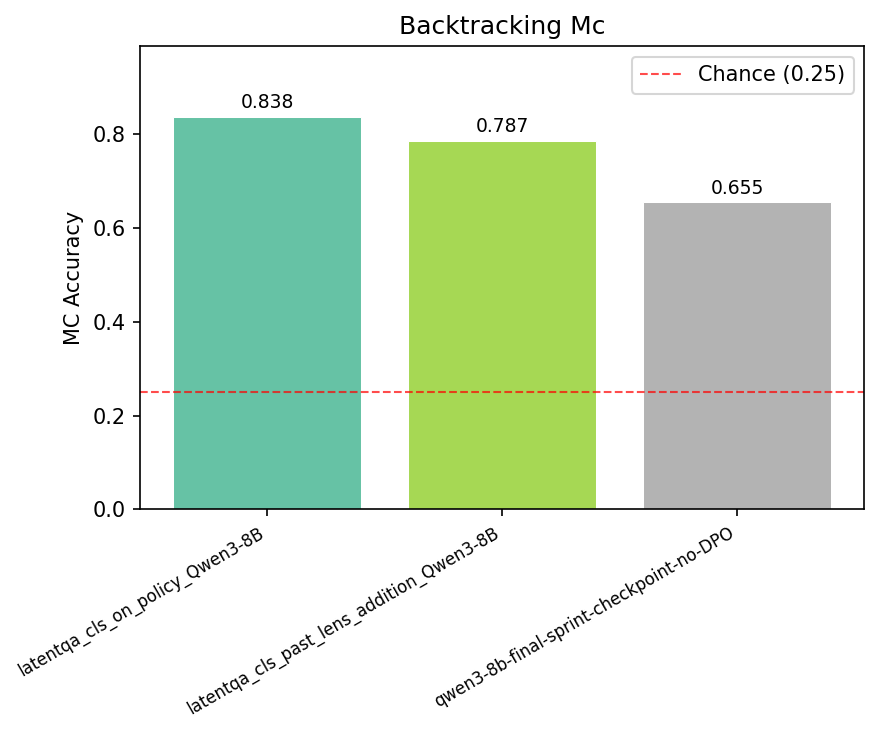
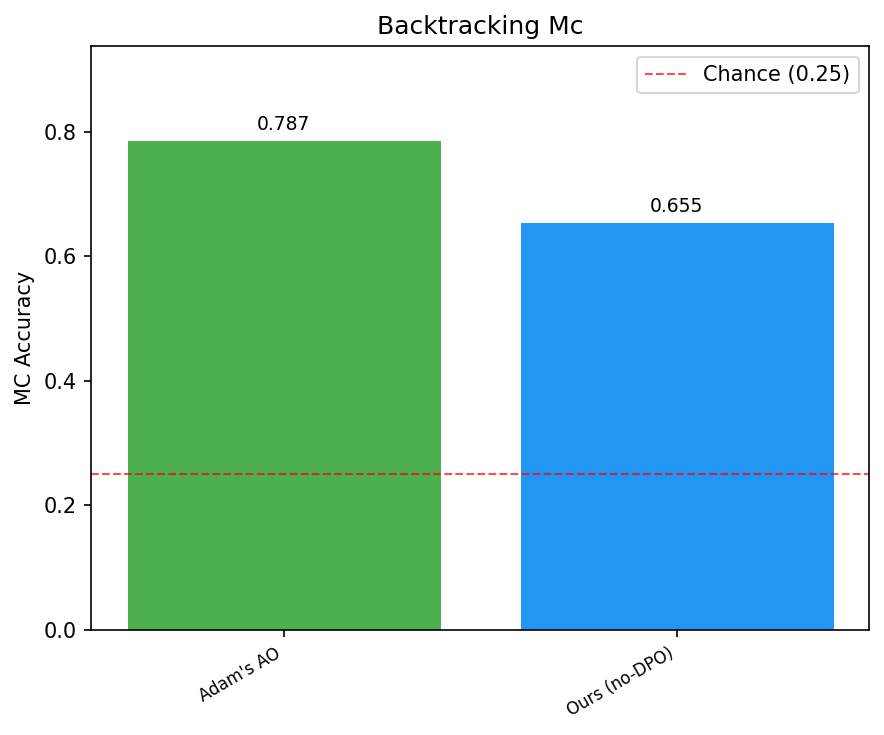
AObench: port judge to OpenRouter, clean up report charts
- LLM judge now uses Gemini 3.1 Flash Lite via OpenRouter (was Anthropic Haiku)
- Shared judge module at AObench/open_ended_eval/judge.py
- Consistent color coding: green=Adam's AO, blue=Ours
- Multi-mode evals (sycophancy, mmlu) averaged per-verbalizer instead of duplicated
- --filter flag to select specific checkpoints for comparison

diff --git a/AObench/report.py b/AObench/report.py
@@ -88,18 +88,16 @@ def extract_verbalizer_metric(
     result: dict[str, float] = {}
 
     # Handle mode_results (mmlu_prediction, sycophancy have nested modes)
+    # Average the metric across modes per verbalizer
     if "mode_results" in summary:
-        # For multi-mode evals, use the overall_metrics
-        om = summary.get("overall_metrics", {})
-        if metric_key in om:
-            result["overall"] = om[metric_key]
-        # Also check per-mode
+        per_verb_values: dict[str, list[float]] = {}
         for mode_name, mode_result in summary.get("mode_results", {}).items():
             mbv = mode_result.get("metrics_by_verbalizer", {})
             for verb_key, metrics in mbv.items():
-                if metric_key in metrics:
-                    key = f"{mode_name}/{verb_key}" if "/" not in verb_key else verb_key
-                    result[key] = metrics[metric_key]
+                if isinstance(metrics, dict) and metric_key in metrics:
+                    per_verb_values.setdefault(verb_key, []).append(metrics[metric_key])
+        for verb_key, vals in per_verb_values.items():
+            result[verb_key] = sum(vals) / len(vals)
         return result
 
     # Standard: metrics_by_verbalizer
@@ -113,11 +111,6 @@ def extract_verbalizer_metric(
     for verb_key, metrics in mc_mbv.items():
         if isinstance(metrics, dict) and metric_key in metrics:
             result[verb_key] = metrics[metric_key]
-
-    # Overall
-    om = summary.get("overall_metrics", {})
-    if metric_key in om:
-        result["_overall"] = om[metric_key]
 
     return result
 
@@ -136,14 +129,32 @@ def extract_bootstrap_data(
 # Plotting
 # ---------------------------------------------------------------------------
 
+# Canonical display names and colors for known checkpoints
+DISPLAY_NAMES: dict[str, str] = {
+    "checkpoints_latentqa_cls_past_lens_addition_Qwen3-8B": "Adam's AO",
+    "latentqa_cls_past_lens_addition_Qwen3-8B": "Adam's AO",
+    "checkpoints_latentqa_cls_on_policy_Qwen3-8B": "Adam's on-policy",
+    "latentqa_cls_on_policy_Qwen3-8B": "Adam's on-policy",
+    "cot-oracle-qwen3-8b-final-sprint-checkpoint-no-DPO": "Ours (no-DPO)",
+    "qwen3-8b-final-sprint-checkpoint-no-DPO": "Ours (no-DPO)",
+}
+
+DISPLAY_COLORS: dict[str, str] = {
+    "Adam's AO": "#4CAF50",
+    "Adam's on-policy": "#8BC34A",
+    "Ours (no-DPO)": "#2196F3",
+}
+
+
 def shorten_lora_name(name: str) -> str:
     """Shorten a verbalizer LoRA name for display."""
     name = name.split("/")[-1]
+    if name in DISPLAY_NAMES:
+        return DISPLAY_NAMES[name]
     # Common prefixes to strip
     for prefix in ["checkpoints_", "cot-oracle-"]:
         if name.startswith(prefix):
             name = name[len(prefix):]
-    # Truncate if still too long
     if len(name) > 40:
         name = name[:37] + "..."
     return name
@@ -175,9 +186,11 @@ def plot_comparison_bar_chart(
 
     x = np.arange(n_evals)
     bar_width = 0.8 / max(n_verbs, 1)
-    colors = plt.cm.Set2(np.linspace(0, 1, max(n_verbs, 1)))
+    fallback_colors = plt.cm.Set2(np.linspace(0, 1, max(n_verbs, 1)))
 
     for i, verb_name in enumerate(verb_names):
+        display = shorten_lora_name(verb_name)
+        color = DISPLAY_COLORS.get(display, fallback_colors[i])
         values = []
         for eval_name in eval_names:
             val = eval_results[eval_name].get(verb_name, 0)
@@ -185,8 +198,8 @@ def plot_comparison_bar_chart(
         offset = (i - n_verbs / 2 + 0.5) * bar_width
         bars = ax.bar(
             x + offset, values, bar_width * 0.9,
-            label=shorten_lora_name(verb_name),
-            color=colors[i],
+            label=display,
+            color=color,
             edgecolor="white",
             linewidth=0.5,
         )
@@ -246,11 +259,15 @@ def plot_per_eval_detail(
     n = len(verb_names)
 
     fig, ax = plt.subplots(figsize=(max(6, n * 1.2), 5))
-    colors = plt.cm.Set2(np.linspace(0, 1, max(n, 1)))
+    fallback_colors = plt.cm.Set2(np.linspace(0, 1, max(n, 1)))
+    bar_colors = [
+        DISPLAY_COLORS.get(shorten_lora_name(v), fallback_colors[i])
+        for i, v in enumerate(verb_names)
+    ]
 
     bars = ax.bar(
         range(n), values,
-        color=colors[:n],
+        color=bar_colors,
         edgecolor="white",
         linewidth=0.5,
     )
@@ -287,6 +304,7 @@ def plot_per_eval_detail(
 def generate_report(
     results_dir: str,
     output_dir: str | None = None,
+    filter_verbalizers: list[str] | None = None,
 ) -> None:
     """Read all eval summaries and generate comparison report."""
     results_path = Path(results_dir)
@@ -316,7 +334,14 @@ def generate_report(
     for eval_name, summary in all_summaries.items():
         metrics = extract_verbalizer_metric(summary, eval_name)
         if metrics:
-            eval_results[eval_name] = metrics
+            # Filter to requested verbalizers
+            if filter_verbalizers:
+                metrics = {
+                    k: v for k, v in metrics.items()
+                    if any(f in k for f in filter_verbalizers)
+                }
+            if metrics:
+                eval_results[eval_name] = metrics
 
     # 1. Overall comparison chart
     comparison_path = os.path.join(output_dir, "comparison.png")
@@ -359,6 +384,7 @@ if __name__ == "__main__":
     parser = argparse.ArgumentParser(description="Generate AObench comparison report")
     parser.add_argument("results_dir", help="Directory containing eval results (all_summaries.json or *_summary.json)")
     parser.add_argument("--output", "-o", default=None, help="Output directory for report")
+    parser.add_argument("--filter", nargs="*", default=None, help="Only include verbalizers containing these substrings")
     args = parser.parse_args()
 
-    generate_report(args.results_dir, args.output)
+    generate_report(args.results_dir, args.output, filter_verbalizers=args.filter)
